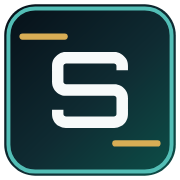
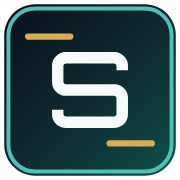
Inset monogram accent bars

diff --git a/index.html b/index.html
@@ -4,11 +4,11 @@
   <meta charset="utf-8">
   <meta name="viewport" content="width=device-width, initial-scale=1">
   <script>document.documentElement.dataset.theme = localStorage.getItem("sajid-site-theme-v2") || "dark";</script>
-  <link rel="icon" type="image/png" sizes="16x16" href="assets/favicon-16.png?v=20260920-robot5">
-  <link rel="icon" href="favicon.ico?v=20260920-robot5" sizes="any">
-  <link rel="icon" type="image/png" sizes="32x32" href="assets/favicon-32.png?v=20260920-robot5">
-  <link rel="icon" type="image/png" sizes="192x192" href="assets/favicon-192.png?v=20260920-robot5">
-  <link rel="apple-touch-icon" sizes="180x180" href="assets/apple-touch-icon.png?v=20260920-robot5">
+  <link rel="icon" type="image/png" sizes="16x16" href="assets/favicon-16.png?v=20260920-robot6">
+  <link rel="icon" href="favicon.ico?v=20260920-robot6" sizes="any">
+  <link rel="icon" type="image/png" sizes="32x32" href="assets/favicon-32.png?v=20260920-robot6">
+  <link rel="icon" type="image/png" sizes="192x192" href="assets/favicon-192.png?v=20260920-robot6">
+  <link rel="apple-touch-icon" sizes="180x180" href="assets/apple-touch-icon.png?v=20260920-robot6">
   <title>Md. Sajid Alam Chowdhury | Trustworthy Multimodal AI</title>
   <meta name="description" content="Md. Sajid Alam Chowdhury is a Computer Science PhD student at Wayne State University researching trustworthy multimodal AI, privacy-aware vision-language reasoning, adversarial robustness, and long-horizon video understanding.">
   <link rel="stylesheet" href="assets/site.css?v=20260920-scholar2">

diff --git a/research.html b/research.html
@@ -4,11 +4,11 @@
   <meta charset="utf-8">
   <meta name="viewport" content="width=device-width, initial-scale=1">
   <script>document.documentElement.dataset.theme = localStorage.getItem("sajid-site-theme-v2") || "dark";</script>
-  <link rel="icon" type="image/png" sizes="16x16" href="assets/favicon-16.png?v=20260920-robot5">
-  <link rel="icon" href="favicon.ico?v=20260920-robot5" sizes="any">
-  <link rel="icon" type="image/png" sizes="32x32" href="assets/favicon-32.png?v=20260920-robot5">
-  <link rel="icon" type="image/png" sizes="192x192" href="assets/favicon-192.png?v=20260920-robot5">
-  <link rel="apple-touch-icon" sizes="180x180" href="assets/apple-touch-icon.png?v=20260920-robot5">
+  <link rel="icon" type="image/png" sizes="16x16" href="assets/favicon-16.png?v=20260920-robot6">
+  <link rel="icon" href="favicon.ico?v=20260920-robot6" sizes="any">
+  <link rel="icon" type="image/png" sizes="32x32" href="assets/favicon-32.png?v=20260920-robot6">
+  <link rel="icon" type="image/png" sizes="192x192" href="assets/favicon-192.png?v=20260920-robot6">
+  <link rel="apple-touch-icon" sizes="180x180" href="assets/apple-touch-icon.png?v=20260920-robot6">
   <title>Research · Md. Sajid Alam Chowdhury</title>
   <meta name="description" content="Research profile of Md. Sajid Alam Chowdhury in trustworthy multimodal AI, Privacy-Aware Vision-Language Reasoning, Adversarial Robustness &amp; Security, and Long-Horizon Video Understanding.">
   <link rel="stylesheet" href="assets/site.css?v=20260920-scholar2">

diff --git a/publications/unified-adversarial-defence-2026.html b/publications/unified-adversarial-defence-2026.html
@@ -4,11 +4,11 @@
   <meta charset="utf-8">
   <meta name="viewport" content="width=device-width, initial-scale=1">
   <script>document.documentElement.dataset.theme = localStorage.getItem("sajid-site-theme-v2") || "dark";</script>
-  <link rel="icon" type="image/png" sizes="16x16" href="../assets/favicon-16.png?v=20260920-robot5">
-  <link rel="icon" href="../favicon.ico?v=20260920-robot5" sizes="any">
-  <link rel="icon" type="image/png" sizes="32x32" href="../assets/favicon-32.png?v=20260920-robot5">
-  <link rel="icon" type="image/png" sizes="192x192" href="../assets/favicon-192.png?v=20260920-robot5">
-  <link rel="apple-touch-icon" sizes="180x180" href="../assets/apple-touch-icon.png?v=20260920-robot5">
+  <link rel="icon" type="image/png" sizes="16x16" href="../assets/favicon-16.png?v=20260920-robot6">
+  <link rel="icon" href="../favicon.ico?v=20260920-robot6" sizes="any">
+  <link rel="icon" type="image/png" sizes="32x32" href="../assets/favicon-32.png?v=20260920-robot6">
+  <link rel="icon" type="image/png" sizes="192x192" href="../assets/favicon-192.png?v=20260920-robot6">
+  <link rel="apple-touch-icon" sizes="180x180" href="../assets/apple-touch-icon.png?v=20260920-robot6">
   <title>A Unified Adversarial Defence Framework · Md. Sajid Alam Chowdhury</title>
   <meta name="description" content="Paper page for A Unified Adversarial Defence Framework by Md. Sajid Alam Chowdhury, Md. Khairul Islam, and Kaushik Deb.">
   <link rel="stylesheet" href="../assets/site.css?v=20260920-scholar2">

diff --git a/publications/ddpm-adversarial-purification-2026.html b/publications/ddpm-adversarial-purification-2026.html
@@ -4,11 +4,11 @@
   <meta charset="utf-8">
   <meta name="viewport" content="width=device-width, initial-scale=1">
   <script>document.documentElement.dataset.theme = localStorage.getItem("sajid-site-theme-v2") || "dark";</script>
-  <link rel="icon" type="image/png" sizes="16x16" href="../assets/favicon-16.png?v=20260920-robot5">
-  <link rel="icon" href="../favicon.ico?v=20260920-robot5" sizes="any">
-  <link rel="icon" type="image/png" sizes="32x32" href="../assets/favicon-32.png?v=20260920-robot5">
-  <link rel="icon" type="image/png" sizes="192x192" href="../assets/favicon-192.png?v=20260920-robot5">
-  <link rel="apple-touch-icon" sizes="180x180" href="../assets/apple-touch-icon.png?v=20260920-robot5">
+  <link rel="icon" type="image/png" sizes="16x16" href="../assets/favicon-16.png?v=20260920-robot6">
+  <link rel="icon" href="../favicon.ico?v=20260920-robot6" sizes="any">
+  <link rel="icon" type="image/png" sizes="32x32" href="../assets/favicon-32.png?v=20260920-robot6">
+  <link rel="icon" type="image/png" sizes="192x192" href="../assets/favicon-192.png?v=20260920-robot6">
+  <link rel="apple-touch-icon" sizes="180x180" href="../assets/apple-touch-icon.png?v=20260920-robot6">
   <title>DDPM-Based Adversarial Purification · Md. Sajid Alam Chowdhury</title>
   <meta name="description" content="Paper page for Towards Developing a DDPM-Based Adversarial Purification Method with Noise-Guided Timestep Selection.">
   <link rel="stylesheet" href="../assets/site.css?v=20260920-scholar2">

diff --git a/projects.html b/projects.html
@@ -4,11 +4,11 @@
   <meta charset="utf-8">
   <meta name="viewport" content="width=device-width, initial-scale=1">
   <script>document.documentElement.dataset.theme = localStorage.getItem("sajid-site-theme-v2") || "dark";</script>
-  <link rel="icon" type="image/png" sizes="16x16" href="assets/favicon-16.png?v=20260920-robot5">
-  <link rel="icon" href="favicon.ico?v=20260920-robot5" sizes="any">
-  <link rel="icon" type="image/png" sizes="32x32" href="assets/favicon-32.png?v=20260920-robot5">
-  <link rel="icon" type="image/png" sizes="192x192" href="assets/favicon-192.png?v=20260920-robot5">
-  <link rel="apple-touch-icon" sizes="180x180" href="assets/apple-touch-icon.png?v=20260920-robot5">
+  <link rel="icon" type="image/png" sizes="16x16" href="assets/favicon-16.png?v=20260920-robot6">
+  <link rel="icon" href="favicon.ico?v=20260920-robot6" sizes="any">
+  <link rel="icon" type="image/png" sizes="32x32" href="assets/favicon-32.png?v=20260920-robot6">
+  <link rel="icon" type="image/png" sizes="192x192" href="assets/favicon-192.png?v=20260920-robot6">
+  <link rel="apple-touch-icon" sizes="180x180" href="assets/apple-touch-icon.png?v=20260920-robot6">
   <title>Research Areas · Md. Sajid Alam Chowdhury</title>
   <meta name="description" content="Research areas for Md. Sajid Alam Chowdhury: Privacy-Aware Vision-Language Reasoning, Adversarial Robustness &amp; Security, and Long-Horizon Video Understanding.">
   <link rel="stylesheet" href="assets/site.css?v=20260920-scholar2">

diff --git a/publications.html b/publications.html
@@ -4,11 +4,11 @@
   <meta charset="utf-8">
   <meta name="viewport" content="width=device-width, initial-scale=1">
   <script>document.documentElement.dataset.theme = localStorage.getItem("sajid-site-theme-v2") || "dark";</script>
-  <link rel="icon" type="image/png" sizes="16x16" href="assets/favicon-16.png?v=20260920-robot5">
-  <link rel="icon" href="favicon.ico?v=20260920-robot5" sizes="any">
-  <link rel="icon" type="image/png" sizes="32x32" href="assets/favicon-32.png?v=20260920-robot5">
-  <link rel="icon" type="image/png" sizes="192x192" href="assets/favicon-192.png?v=20260920-robot5">
-  <link rel="apple-touch-icon" sizes="180x180" href="assets/apple-touch-icon.png?v=20260920-robot5">
+  <link rel="icon" type="image/png" sizes="16x16" href="assets/favicon-16.png?v=20260920-robot6">
+  <link rel="icon" href="favicon.ico?v=20260920-robot6" sizes="any">
+  <link rel="icon" type="image/png" sizes="32x32" href="assets/favicon-32.png?v=20260920-robot6">
+  <link rel="icon" type="image/png" sizes="192x192" href="assets/favicon-192.png?v=20260920-robot6">
+  <link rel="apple-touch-icon" sizes="180x180" href="assets/apple-touch-icon.png?v=20260920-robot6">
   <title>Publications · Md. Sajid Alam Chowdhury</title>
   <meta name="description" content="Publications by Md. Sajid Alam Chowdhury in adversarial defense, multimodal learning, NLP, and trustworthy AI.">
   <link rel="stylesheet" href="assets/site.css?v=20260920-scholar2">

diff --git a/publications/dravidianlangtech-2025.html b/publications/dravidianlangtech-2025.html
@@ -4,11 +4,11 @@
   <meta charset="utf-8">
   <meta name="viewport" content="width=device-width, initial-scale=1">
   <script>document.documentElement.dataset.theme = localStorage.getItem("sajid-site-theme-v2") || "dark";</script>
-  <link rel="icon" type="image/png" sizes="16x16" href="../assets/favicon-16.png?v=20260920-robot5">
-  <link rel="icon" href="../favicon.ico?v=20260920-robot5" sizes="any">
-  <link rel="icon" type="image/png" sizes="32x32" href="../assets/favicon-32.png?v=20260920-robot5">
-  <link rel="icon" type="image/png" sizes="192x192" href="../assets/favicon-192.png?v=20260920-robot5">
-  <link rel="apple-touch-icon" sizes="180x180" href="../assets/apple-touch-icon.png?v=20260920-robot5">
+  <link rel="icon" type="image/png" sizes="16x16" href="../assets/favicon-16.png?v=20260920-robot6">
+  <link rel="icon" href="../favicon.ico?v=20260920-robot6" sizes="any">
+  <link rel="icon" type="image/png" sizes="32x32" href="../assets/favicon-32.png?v=20260920-robot6">
+  <link rel="icon" type="image/png" sizes="192x192" href="../assets/favicon-192.png?v=20260920-robot6">
+  <link rel="apple-touch-icon" sizes="180x180" href="../assets/apple-touch-icon.png?v=20260920-robot6">
   <title>DravidianLangTech 2025 · Md. Sajid Alam Chowdhury</title>
   <meta name="description" content="Paper page for Fired_from_NLP@DravidianLangTech 2025.">
   <link rel="stylesheet" href="../assets/site.css?v=20260920-scholar2">

diff --git a/publications/semeval-2024.html b/publications/semeval-2024.html
@@ -4,11 +4,11 @@
   <meta charset="utf-8">
   <meta name="viewport" content="width=device-width, initial-scale=1">
   <script>document.documentElement.dataset.theme = localStorage.getItem("sajid-site-theme-v2") || "dark";</script>
-  <link rel="icon" type="image/png" sizes="16x16" href="../assets/favicon-16.png?v=20260920-robot5">
-  <link rel="icon" href="../favicon.ico?v=20260920-robot5" sizes="any">
-  <link rel="icon" type="image/png" sizes="32x32" href="../assets/favicon-32.png?v=20260920-robot5">
-  <link rel="icon" type="image/png" sizes="192x192" href="../assets/favicon-192.png?v=20260920-robot5">
-  <link rel="apple-touch-icon" sizes="180x180" href="../assets/apple-touch-icon.png?v=20260920-robot5">
+  <link rel="icon" type="image/png" sizes="16x16" href="../assets/favicon-16.png?v=20260920-robot6">
+  <link rel="icon" href="../favicon.ico?v=20260920-robot6" sizes="any">
+  <link rel="icon" type="image/png" sizes="32x32" href="../assets/favicon-32.png?v=20260920-robot6">
+  <link rel="icon" type="image/png" sizes="192x192" href="../assets/favicon-192.png?v=20260920-robot6">
+  <link rel="apple-touch-icon" sizes="180x180" href="../assets/apple-touch-icon.png?v=20260920-robot6">
   <title>SemEval 2024 · Md. Sajid Alam Chowdhury</title>
   <meta name="description" content="Paper page for Fired_from_NLP at SemEval-2024 Task 1.">
   <link rel="stylesheet" href="../assets/site.css?v=20260920-scholar2">

diff --git a/publications/checkthat-2024.html b/publications/checkthat-2024.html
@@ -4,11 +4,11 @@
   <meta charset="utf-8">
   <meta name="viewport" content="width=device-width, initial-scale=1">
   <script>document.documentElement.dataset.theme = localStorage.getItem("sajid-site-theme-v2") || "dark";</script>
-  <link rel="icon" type="image/png" sizes="16x16" href="../assets/favicon-16.png?v=20260920-robot5">
-  <link rel="icon" href="../favicon.ico?v=20260920-robot5" sizes="any">
-  <link rel="icon" type="image/png" sizes="32x32" href="../assets/favicon-32.png?v=20260920-robot5">
-  <link rel="icon" type="image/png" sizes="192x192" href="../assets/favicon-192.png?v=20260920-robot5">
-  <link rel="apple-touch-icon" sizes="180x180" href="../assets/apple-touch-icon.png?v=20260920-robot5">
+  <link rel="icon" type="image/png" sizes="16x16" href="../assets/favicon-16.png?v=20260920-robot6">
+  <link rel="icon" href="../favicon.ico?v=20260920-robot6" sizes="any">
+  <link rel="icon" type="image/png" sizes="32x32" href="../assets/favicon-32.png?v=20260920-robot6">
+  <link rel="icon" type="image/png" sizes="192x192" href="../assets/favicon-192.png?v=20260920-robot6">
+  <link rel="apple-touch-icon" sizes="180x180" href="../assets/apple-touch-icon.png?v=20260920-robot6">
   <title>CheckThat! 2024 · Md. Sajid Alam Chowdhury</title>
   <meta name="description" content="Paper page for Fired_from_NLP at CheckThat! 2024.">
   <link rel="stylesheet" href="../assets/site.css?v=20260920-scholar2">

diff --git a/publications/arafinnlp-2024.html b/publications/arafinnlp-2024.html
@@ -4,11 +4,11 @@
   <meta charset="utf-8">
   <meta name="viewport" content="width=device-width, initial-scale=1">
   <script>document.documentElement.dataset.theme = localStorage.getItem("sajid-site-theme-v2") || "dark";</script>
-  <link rel="icon" type="image/png" sizes="16x16" href="../assets/favicon-16.png?v=20260920-robot5">
-  <link rel="icon" href="../favicon.ico?v=20260920-robot5" sizes="any">
-  <link rel="icon" type="image/png" sizes="32x32" href="../assets/favicon-32.png?v=20260920-robot5">
-  <link rel="icon" type="image/png" sizes="192x192" href="../assets/favicon-192.png?v=20260920-robot5">
-  <link rel="apple-touch-icon" sizes="180x180" href="../assets/apple-touch-icon.png?v=20260920-robot5">
+  <link rel="icon" type="image/png" sizes="16x16" href="../assets/favicon-16.png?v=20260920-robot6">
+  <link rel="icon" href="../favicon.ico?v=20260920-robot6" sizes="any">
+  <link rel="icon" type="image/png" sizes="32x32" href="../assets/favicon-32.png?v=20260920-robot6">
+  <link rel="icon" type="image/png" sizes="192x192" href="../assets/favicon-192.png?v=20260920-robot6">
+  <link rel="apple-touch-icon" sizes="180x180" href="../assets/apple-touch-icon.png?v=20260920-robot6">
   <title>AraFinNLP 2024 · Md. Sajid Alam Chowdhury</title>
   <meta name="description" content="Paper page for Fired_from_NLP at AraFinNLP 2024.">
   <link rel="stylesheet" href="../assets/site.css?v=20260920-scholar2">

diff --git a/updates.html b/updates.html
@@ -4,11 +4,11 @@
   <meta charset="utf-8">
   <meta name="viewport" content="width=device-width, initial-scale=1">
   <script>document.documentElement.dataset.theme = localStorage.getItem("sajid-site-theme-v2") || "dark";</script>
-  <link rel="icon" type="image/png" sizes="16x16" href="assets/favicon-16.png?v=20260920-robot5">
-  <link rel="icon" href="favicon.ico?v=20260920-robot5" sizes="any">
-  <link rel="icon" type="image/png" sizes="32x32" href="assets/favicon-32.png?v=20260920-robot5">
-  <link rel="icon" type="image/png" sizes="192x192" href="assets/favicon-192.png?v=20260920-robot5">
-  <link rel="apple-touch-icon" sizes="180x180" href="assets/apple-touch-icon.png?v=20260920-robot5">
+  <link rel="icon" type="image/png" sizes="16x16" href="assets/favicon-16.png?v=20260920-robot6">
+  <link rel="icon" href="favicon.ico?v=20260920-robot6" sizes="any">
+  <link rel="icon" type="image/png" sizes="32x32" href="assets/favicon-32.png?v=20260920-robot6">
+  <link rel="icon" type="image/png" sizes="192x192" href="assets/favicon-192.png?v=20260920-robot6">
+  <link rel="apple-touch-icon" sizes="180x180" href="assets/apple-touch-icon.png?v=20260920-robot6">
   <title>Updates · Md. Sajid Alam Chowdhury</title>
   <meta name="description" content="Recent academic, publication, award, and career updates from Md. Sajid Alam Chowdhury.">
   <link rel="stylesheet" href="assets/site.css?v=20260920-scholar2">

diff --git a/cv.html b/cv.html
@@ -4,11 +4,11 @@
   <meta charset="utf-8">
   <meta name="viewport" content="width=device-width, initial-scale=1">
   <script>document.documentElement.dataset.theme = localStorage.getItem("sajid-site-theme-v2") || "dark";</script>
-  <link rel="icon" type="image/png" sizes="16x16" href="assets/favicon-16.png?v=20260920-robot5">
-  <link rel="icon" href="favicon.ico?v=20260920-robot5" sizes="any">
-  <link rel="icon" type="image/png" sizes="32x32" href="assets/favicon-32.png?v=20260920-robot5">
-  <link rel="icon" type="image/png" sizes="192x192" href="assets/favicon-192.png?v=20260920-robot5">
-  <link rel="apple-touch-icon" sizes="180x180" href="assets/apple-touch-icon.png?v=20260920-robot5">
+  <link rel="icon" type="image/png" sizes="16x16" href="assets/favicon-16.png?v=20260920-robot6">
+  <link rel="icon" href="favicon.ico?v=20260920-robot6" sizes="any">
+  <link rel="icon" type="image/png" sizes="32x32" href="assets/favicon-32.png?v=20260920-robot6">
+  <link rel="icon" type="image/png" sizes="192x192" href="assets/favicon-192.png?v=20260920-robot6">
+  <link rel="apple-touch-icon" sizes="180x180" href="assets/apple-touch-icon.png?v=20260920-robot6">
   <title>Curriculum Vitae · Md. Sajid Alam Chowdhury</title>
   <meta name="description" content="Download the CV of Md. Sajid Alam Chowdhury.">
   <link rel="stylesheet" href="assets/site.css?v=20260920-scholar2">
